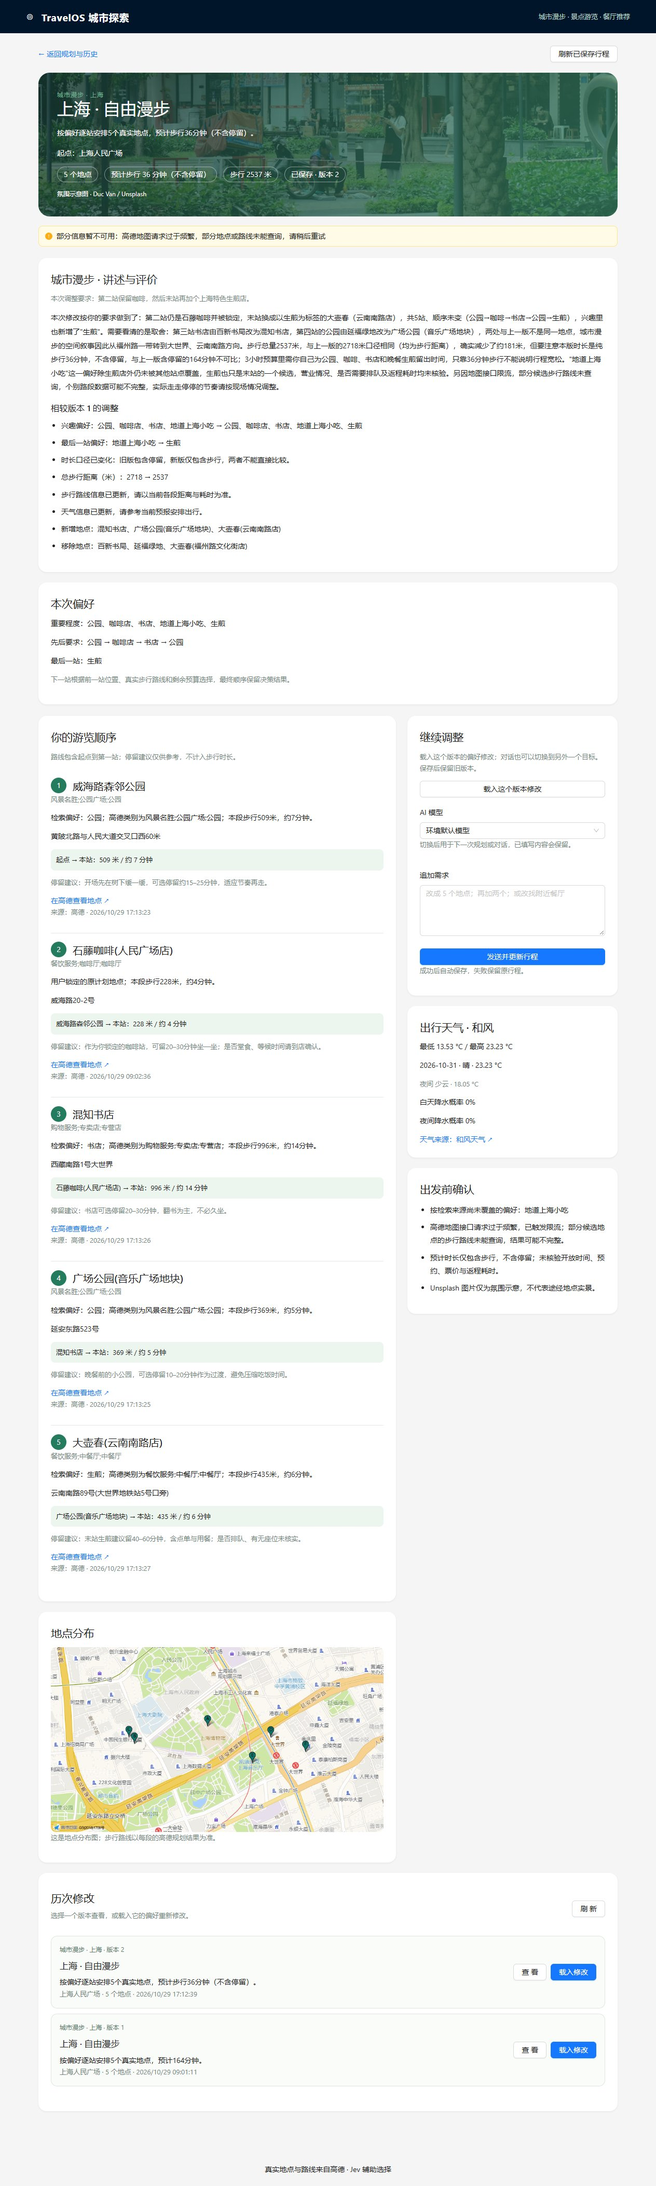
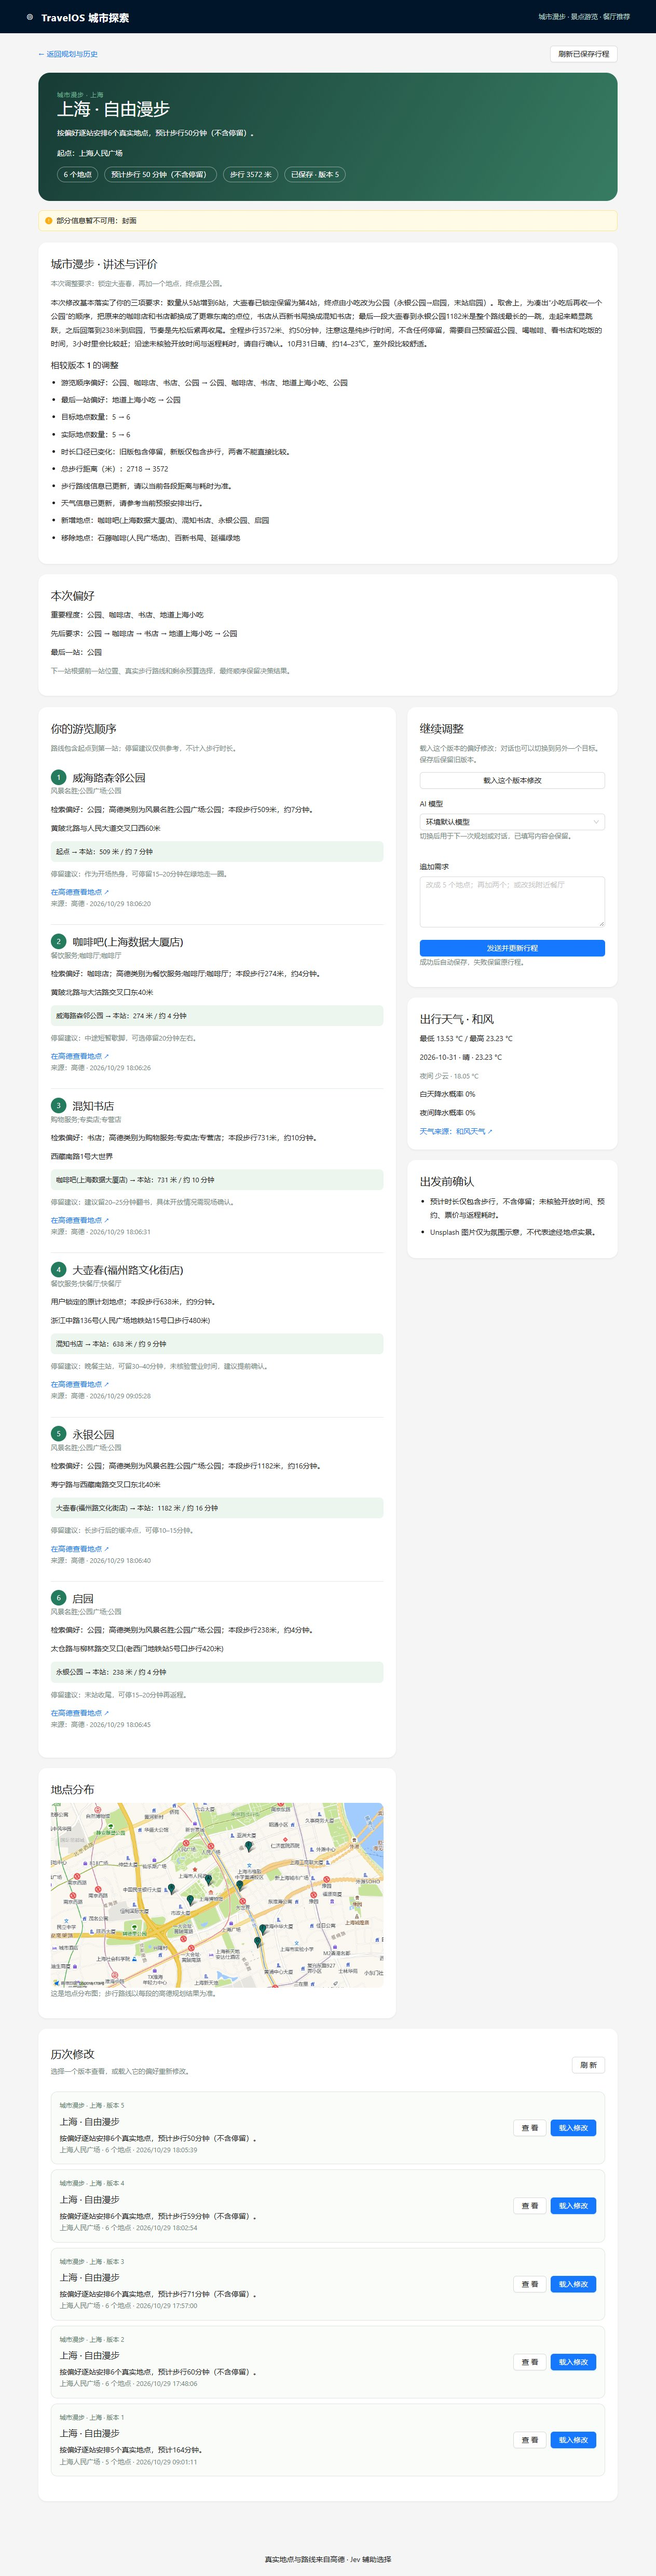
Show locked restaurant and new park destination

diff --git a/backend/tests/test_map_service.py b/backend/tests/test_map_service.py
@@ -1,0 +1,26 @@
+"""地图应支持起点加六站，并在超出支持数量时提示。"""
+import unittest
+from unittest.mock import AsyncMock
+
+from app.services.map_service import get_static_map
+
+
+class StaticMapPointLimitTests(unittest.IsolatedAsyncioTestCase):
+    async def test_six_stop_walk_includes_start_and_each_stop(self):
+        amap = type('Amap', (), {})()
+        amap.static_map = AsyncMock(return_value=(b'image', 'image/png'))
+        points = ';'.join(f'{121.40 + index / 1000},31.23' for index in range(7))
+
+        image, content_type = await get_static_map(points, amap)
+
+        self.assertEqual((image, content_type), (b'image', 'image/png'))
+        self.assertEqual(len(amap.static_map.await_args.args[0]), 7)
+
+    async def test_rejects_more_than_ten_points(self):
+        amap = type('Amap', (), {})()
+        amap.static_map = AsyncMock()
+        points = ';'.join(f'{121.40 + index / 1000},31.23' for index in range(11))
+
+        with self.assertRaisesRegex(ValueError, '2至10'):
+            await get_static_map(points, amap)
+        amap.static_map.assert_not_awaited()

diff --git a/backend/app/services/map_service.py b/backend/app/services/map_service.py
@@ -12,8 +12,8 @@ async def get_static_map(points: str, amap: AmapService) -> tuple[bytes, str]:
             if not (73 <= lon <= 135 and 3 <= lat <= 54):
                 raise ValueError("坐标超出支持范围")
             coordinates.append((lon, lat))
-        if not (2 <= len(coordinates) <= 6):
-            raise ValueError("需要2至6个地点")
+        if not (2 <= len(coordinates) <= 10):
+            raise ValueError("需要2至10个地点（含起点）")
         return await amap.static_map(coordinates)
     except AmapServiceError as exc:
         raise MapServiceError("高德地图服务暂不可用") from exc

diff --git a/README.md b/README.md
@@ -65,7 +65,7 @@ npm run dev
 1. 选择“城市漫步”“景点游览”“餐厅推荐”或“对话规划”。
 2. 输入城市和出发地点，搜索并选择正确的地点；按需要填写数量、偏好、时长等条件，点击“开始规划”。
 3. 查看结果里的地点、推荐理由、地图及可用的路线和天气信息。城市漫步的新计划将步行时长与停留建议分开展示。
-4. 在结果页的“继续调整”输入自然语言，例如“第二站保留石藤咖啡(人民广场店)，末站再加一个上海特色生煎店”，点击“发送并更新行程”。保留地点时建议写出当前计划里的完整名称。
+4. 在结果页的“继续调整”输入自然语言，例如“锁定大壶春，再加一个地点，终点是公园”，点击“发送并更新行程”。保留地点时建议写出当前计划里的完整名称。
 5. 修改成功后生成新版本；可以在“历次修改”里查看旧版本，或载入某个版本继续调整。规划历史保存在本机数据库，默认有效期为 30 天。
 
 如果地点不足或外部服务限流，页面会显示可用结果及原因；需要时可调整条件或稍后重试。
